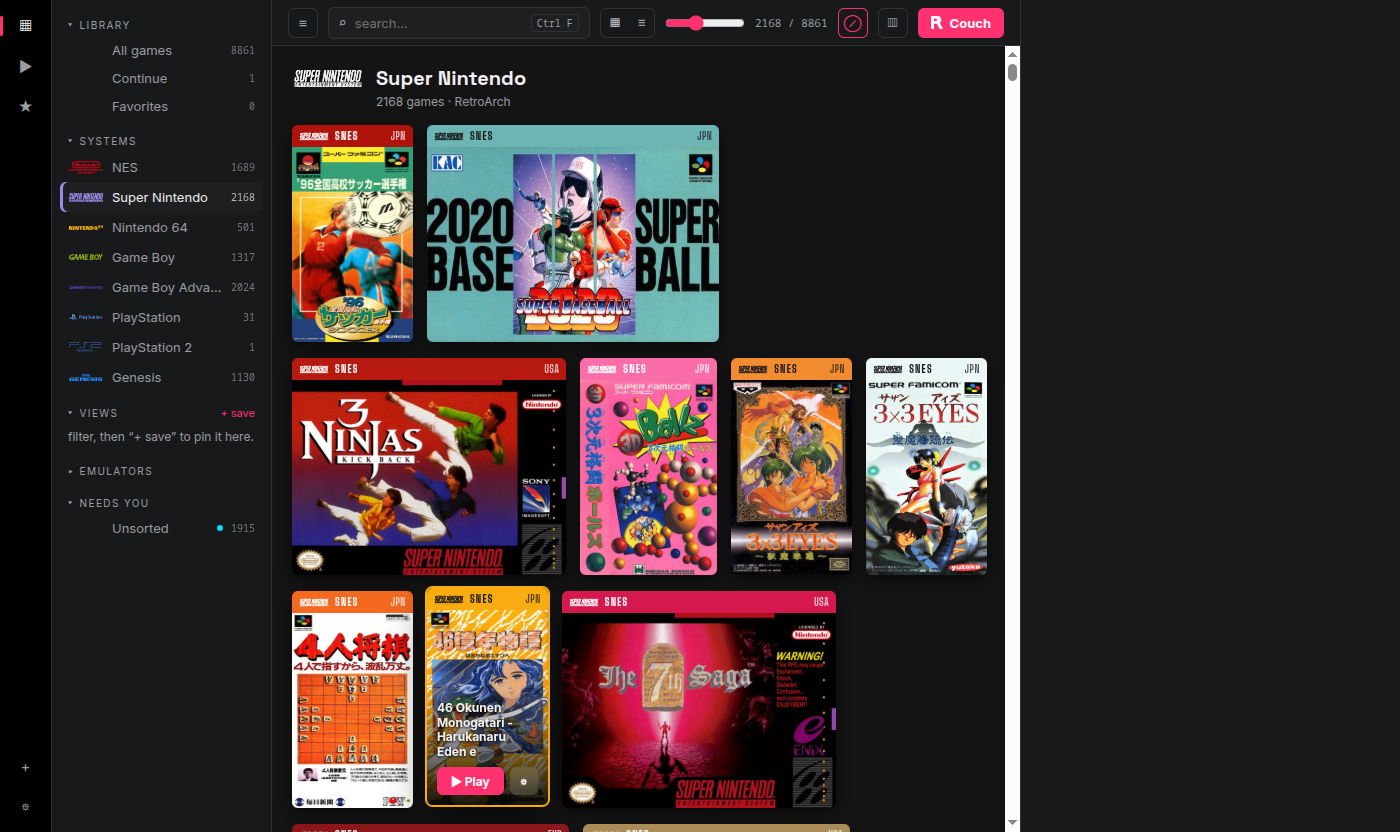
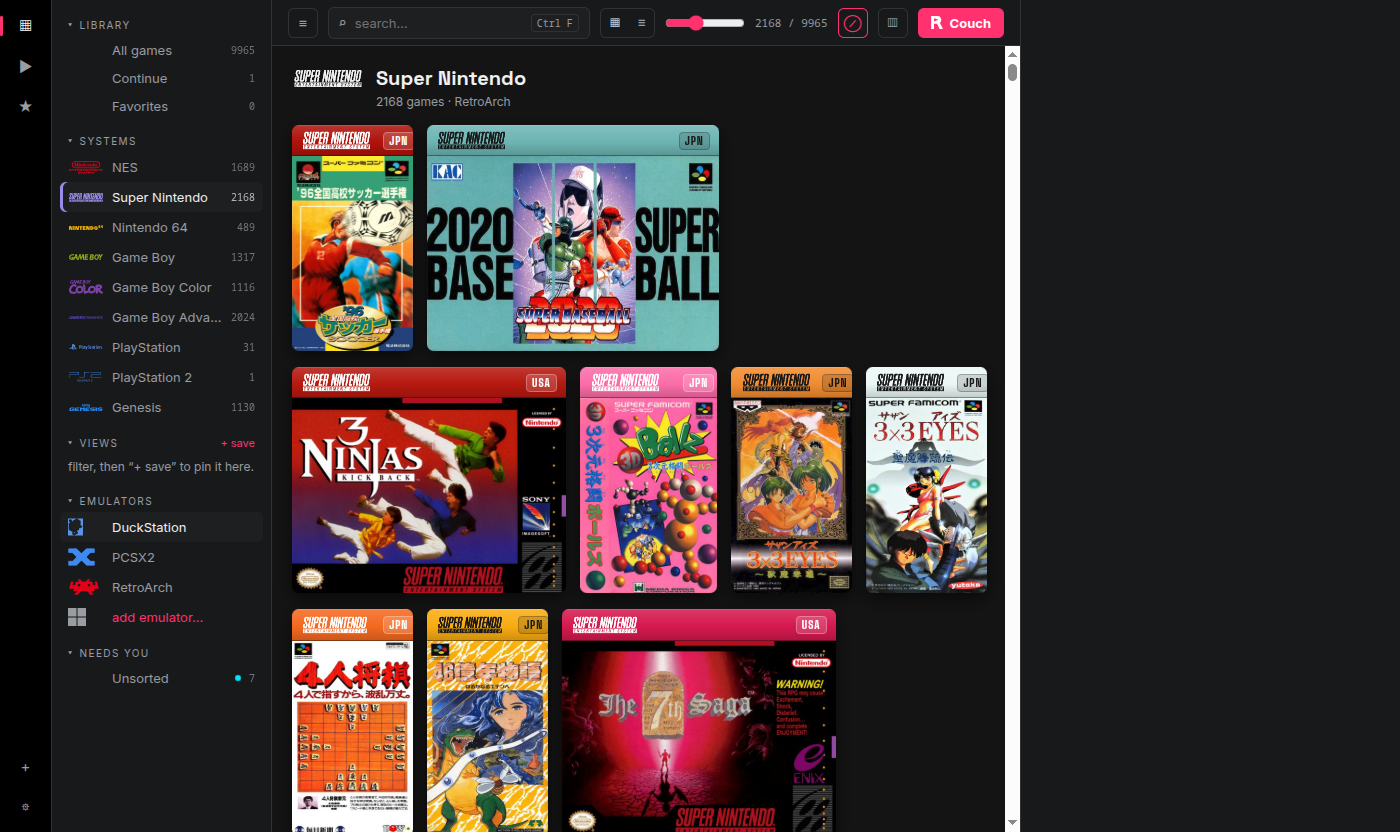
gbc shelf, bigger store bars, translation packs
- Game Boy Color is a real system: systems.json (.gbc), retroarch recipe (mgba core), scraper + covers maps,
  logo from Commons (public domain) flattened with scripts/flatten-svg.js. 1,913 files were in Unsorted;
  now 1,422 cards, 1,116 on the shelf, 1,115 with box art.
- cover bars: height scales with the zoom slider (28-42px, --bh in css == barH() in js so rows never overlap),
  console mark ~2x bigger, region as a pill, cover-colored with a light sheen. dropped the duplicate text label
  ('SNES', 'GB COL...') that sat next to the logo and got truncated.
- covers resume: a jpg already on disk is reused instead of downloaded again (cdn ran 1-5s/cover tonight);
  writes go through .part + rename so an interrupted job never leaves half a jpg behind.
- chinese translation packs ([..][..][Castlevania Aria of Sorrow][date][GBA][汉化][GBA].zip): english name
  from the brackets, platform tag picks the real console, merge into the retail card. pc installers -> unsorted.
- junk filter also applies when a fresh snapshot is rendered without renderAll (cover progress refresh).
37 tests. verified in the packaged AppImage: rescan, snes/gbc/genesis, zoom 110/220, 0 row overlap, 0 exceptions.

diff --git a/src/renderer/app.css b/src/renderer/app.css
@@ -349,12 +349,17 @@ input[type=range]{accent-color:var(--accent)}
 
 @font-face{font-family:'REPRO Bar';src:url('../../assets/fonts/BigShouldersDisplay.ttf') format('truetype');font-weight:100 900;font-display:block}
 /* ---------- shelf cards: top bar in the cover's own color, card in the real box's shape (fixed height, width from the box) */
-.grid.shelfgrid{display:flex;flex-wrap:wrap;align-items:flex-end;gap:16px 14px;--ch:calc(var(--cw,150px) * 1.3)}
-.card.shelf{aspect-ratio:auto;height:calc(var(--ch) + 22px);width:calc(var(--ch) * var(--ar));flex:none;display:flex;flex-direction:column;background:#0b0b0d;border:0;border-radius:6px;box-shadow:0 6px 16px rgba(0,0,0,.55)}
-.card.shelf .cbar{height:22px;flex:none;display:flex;align-items:center;gap:6px;padding:0 7px;background:var(--bc);color:var(--bi);font:800 10.5px/1 'REPRO Bar',var(--display,sans-serif);letter-spacing:.12em;white-space:nowrap;overflow:hidden}
-.card.shelf .cbar .lg{width:30px;height:11px;flex:none;background:var(--bi);-webkit-mask:var(--m) left center/contain no-repeat;mask:var(--m) left center/contain no-repeat}
-.card.shelf .cbar b{font-weight:800;overflow:hidden;text-overflow:ellipsis}
-.card.shelf .cbar span{margin-left:auto;opacity:.75;letter-spacing:.06em;font-weight:700}
+.grid.shelfgrid{display:flex;flex-wrap:wrap;align-items:flex-end;gap:16px 14px;--ch:calc(var(--cw,150px) * 1.3);--bh:clamp(28px,calc(var(--ch) * .16),42px)}
+.card.shelf{aspect-ratio:auto;height:calc(var(--ch) + var(--bh));width:calc(var(--ch) * var(--ar));flex:none;display:flex;flex-direction:column;background:#0b0b0d;border:0;border-radius:7px;box-shadow:0 6px 16px rgba(0,0,0,.55);container-type:inline-size}
+/* store-shelf top bar: color from the cover, the console mark big enough to read across the room */
+.card.shelf .cbar{height:var(--bh);flex:none;display:flex;align-items:center;gap:calc(var(--bh) * .26);padding:0 calc(var(--bh) * .3);
+  background:linear-gradient(180deg,rgba(255,255,255,.14),rgba(255,255,255,0) 55%,rgba(0,0,0,.18)),var(--bc);color:var(--bi);
+  box-shadow:inset 0 -1px 0 rgba(0,0,0,.35),inset 0 1px 0 rgba(255,255,255,.12);
+  font:800 calc(var(--bh) * .44)/1 'REPRO Bar',var(--display,sans-serif);letter-spacing:.09em;white-space:nowrap;overflow:hidden}
+.card.shelf .cbar .lg{height:calc(var(--bh) * .66);width:calc(var(--bh) * 3.4);max-width:72%;flex:none;background:var(--bi);-webkit-mask:var(--m) left center/contain no-repeat;mask:var(--m) left center/contain no-repeat;filter:drop-shadow(0 1px 0 rgba(0,0,0,.2))}
+.card.shelf .cbar b{font-weight:800;overflow:hidden;text-overflow:ellipsis;min-width:0}
+.card.shelf .cbar .rg{margin-left:auto;flex:none;font-weight:800;font-size:calc(var(--bh) * .38);letter-spacing:.08em;padding:calc(var(--bh) * .1) calc(var(--bh) * .2);border-radius:calc(var(--bh) * .14);
+  background:color-mix(in srgb,var(--bi) 16%,transparent);box-shadow:inset 0 0 0 1px color-mix(in srgb,var(--bi) 28%,transparent)}
 .card.shelf .cart{position:relative;flex:1;min-height:0;overflow:hidden}
 .card.shelf.k-box .cart img{width:100%;height:100%;object-fit:fill;display:block}
 .card.shelf.k-title .ts{height:72%;overflow:hidden;background:#000}
@@ -363,8 +368,8 @@ input[type=range]{accent-color:var(--accent)}
 .card.shelf.k-none .na{position:absolute;inset:0;display:flex;align-items:flex-end;padding:10px;background:linear-gradient(160deg,var(--panel2),#0b0b0d)}
 .card.shelf.k-none .na b{font:900 14px/1.05 'REPRO Bar',var(--display,sans-serif);text-transform:uppercase}
 .card.shelf:hover,.card.shelf.sel{box-shadow:0 0 0 2px var(--bc),0 16px 36px rgba(0,0,0,.6)}
-.card.shelf .fav{top:28px}
-.card.shelf .badge{top:28px}
+.card.shelf .fav{top:calc(var(--bh) + 6px)}
+.card.shelf .badge{top:calc(var(--bh) + 6px)}
 .card.shelf .pb{bottom:0}
 /* virtualized library: #items is as tall as the whole shelf, only nearby rows exist, absolutely placed */
 #items.vlist{position:relative;display:block}

diff --git a/src/renderer/app.js b/src/renderer/app.js
@@ -29,7 +29,8 @@ const SHORT = { nes: 'NES', snes: 'SNES', n64: 'N64', gc: 'GAMECUBE', wii: 'WII'
 const REGION = f => { const m = (f || '').match(/\((USA|World|Europe|Japan)[,)]/i) || (f || '').match(/\((?:[^()]*, )?(USA|Europe|Japan)\)/i); return m ? ({ usa: 'USA', world: 'WORLD', europe: 'EUR', japan: 'JPN' })[m[1].toLowerCase()] : ''; };
 function barEl(g) {
   const right = g.year || REGION(g.file);
-  return `<div class="cbar"><i class="lg" style="--m:url('${fileUrl(BUNDLE + '/assets/systems/' + g.sys + '.svg')}')"></i><b>${SHORT[g.sys] || esc(sysName(g.sys)).toUpperCase()}</b>${right ? `<span>${esc(String(right))}</span>` : ''}</div>`;
+  const mark = S.sysdb?.[g.sys] ? `<i class="lg" style="--m:url('${fileUrl(BUNDLE + '/assets/systems/' + g.sys + '.svg')}')" title="${esc(sysName(g.sys))}"></i>` : `<b>${SHORT[g.sys] || esc(sysName(g.sys)).toUpperCase()}</b>`;
+  return `<div class="cbar">${mark}${right ? `<span class="rg">${esc(String(right))}</span>` : ''}</div>`;
 }
 function shelfCard(g) {
   const kind = !g.art ? 'none' : g.artKind === 'title' ? 'title' : 'box';
@@ -49,6 +50,7 @@ function matchView(g, v) { if (v.sys && g.sys !== v.sys) return false; if (v.fav
 
 /* ---------- sidebar ---------- */
 function renderSide() {
+  if (!S.all) applyJunk();
   const counts = {}; S.games.forEach(g => counts[g.sys] = (counts[g.sys] || 0) + 1);
   const it = (f, k, txt, n, extra = '') => `<button class="it ${filter == f ? 'on' : ''}" data-f="${f}" ${sysc(k)}>${k ? logo(k) : ''}<span class="tx">${txt}</span>${extra}<span class="n">${n ?? ''}</span></button>`;
   let h = `<details open><summary>Library</summary>
@@ -101,8 +103,10 @@ const ROW_GAP = 16, COL_GAP = 14, LROW_H = 58, OVERSCAN = 2;
 let VL = null; // { l, rows: [{ top, h, items:[i...] }], height, mode, key }
 const cardDims = g => {
   const ch = cardH(), ar = !g.art ? 0.8 : g.artKind === 'title' ? 0.8 : Math.min(1.5, Math.max(0.62, g.artAR || 0.72));
-  return { w: Math.round(ch * ar), h: ch + 22 };
+  return { w: Math.round(ch * ar), h: ch + barH(ch) };
 };
+// top bar grows with the zoom slider; must match --bh in app.css (.grid.shelfgrid) or rows overlap
+const barH = ch => Math.min(42, Math.max(28, ch * 0.16));
 const cardH = () => Math.round((parseFloat(getComputedStyle(document.documentElement).getPropertyValue('--cw')) || 150) * 1.3);
 function packRows(l, width, mode) {
   const rows = []; let top = 0;
@@ -152,6 +156,7 @@ function vlLayout(keepScroll) {
   vlPaint(true);
 }
 function renderMain() {
+  if (!S.all) applyJunk();
   if (filter == 'unsorted') { VL = null; return renderUnsorted(); }
   if (filter.startsWith('e:')) { VL = null; return renderEmu(filter.slice(2)); }
   const l = list();
@@ -350,6 +355,7 @@ const C_WIN = 40, C_EDGE = 18; // a screen holds ~11 tiles: always keep 18+ load
 let cData = [], cRowStart = [], cRowCol = [];
 let bgFlip = false;
 function renderCouch() {
+  if (!S.all) applyJunk();
   const rows = []; const cont = played().slice(0, 8); if (cont.length) rows.push({ k: 'continue', n: 'Continue', items: cont });
   for (const k of Object.keys(S.systems)) { const it = S.games.filter(g => g.sys == k).sort(byName); if (it.length) rows.push({ k, n: sysName(k), items: it }); }
   cList = []; cRows = []; cRowStart = [];

diff --git a/src/main/covers.js b/src/main/covers.js
@@ -61,7 +61,7 @@ function matchName(game, names, idx) {
   const pick = list => list && list.slice().sort((a, b) => rank(a) - rank(b) || a.length - b.length)[0];
   const byBase = pick(idx.base.get(baseTitle(stem).toLowerCase()));
   if (byBase && !BAD.test(byBase)) return byBase;
-  const byFuzzy = pick(idx.fuzzy.get(fuzzy(stem)) || idx.fuzzy.get(fuzzy(lrName(game.title || ''))));
+  const byFuzzy = pick(idx.fuzzy.get(fuzzy(stem)) || idx.fuzzy.get(fuzzy(lrName(game.title || ''))) || (game.name ? idx.fuzzy.get(fuzzy(lrName(game.name))) : null)); // display name: translation packs
   if (byFuzzy && !BAD.test(byFuzzy)) return byFuzzy;
   return byBase || byFuzzy || null;
 }
@@ -139,12 +139,15 @@ async function coverFor(game, { artDir, cacheDir, img, fetch = get, indexes = {}
     if (!(key in indexes)) { const names = await loadIndex(game.sys, kind, cacheDir, { fetch }); indexes[key] = names && { names, idx: indexNames(names) }; }
     const ix = indexes[key]; if (!ix) continue;
     const name = matchName(game, ix.names, ix.idx); if (!name) continue;
+    const dir = path.join(artDir, game.sys);
+    const out = path.join(dir, `${lrName(stemOf(game.file || game.title))}.${kind}.jpg`);
+    // already on disk from an earlier (maybe interrupted) run: reuse it, no download. the cdn can be slow (1-5s a cover).
+    if (fs.existsSync(out)) { const d = describeLocal(out, img); if (d) return { art: out, artKind: kind, ...d, artFrom: name }; }
     const r = await fetch(folderUrl(game.sys, kind) + encodeURIComponent(name) + '.png').catch(() => null);
     if (!r || r.status !== 200 || r.body.length < 500) continue;
     const pic = img.decode(r.body); if (!pic || !pic.w) continue;
-    const dir = path.join(artDir, game.sys); fs.mkdirSync(dir, { recursive: true });
-    const out = path.join(dir, `${lrName(stemOf(game.file || game.title))}.${kind}.jpg`);
-    fs.writeFileSync(out, pic.jpeg(420));
+    fs.mkdirSync(dir, { recursive: true });
+    fs.writeFileSync(out + '.part', pic.jpeg(420)); fs.renameSync(out + '.part', out); // never leave a half-written jpg to be "reused"
     const bm = pic.bitmap(64);
     return { art: out, artKind: kind, artAR: +(pic.w / pic.h).toFixed(3), ...prefix(accentFromBitmap(bm.data, bm.w, bm.h)), artFrom: name };
   }

diff --git a/src/main/titles.js b/src/main/titles.js
@@ -47,8 +47,29 @@ function fixArticles(s) {
   return s.split(' - ').map(seg => { const m = seg.match(ARTICLES); return m && !m[3]?.trim() ? `${m[2]} ${m[1]}` : m ? `${m[2]} ${m[1]}${m[3]}` : seg; }).join(' - ');
 }
 
+// fan-translation packs name files by bracket groups instead of No-Intro:
+//   [恶魔城 晓月圆舞曲][キャッスルヴァニア 暁月の円舞曲][Castlevania Aria of Sorrow][20030508][GBA][汉化][GBA].zip
+// -> name from the latin group, the platform tag says which console it really is (they get dumped in random folders).
+const PACK_SYS = { FC: 'nes', NES: 'nes', SFC: 'snes', SNES: 'snes', GB: 'gb', GBC: 'gbc', GBA: 'gba', NDS: 'ds', N64: 'n64', PS: 'ps1', PSX: 'ps1', PS1: 'ps1', PS2: 'ps2', MD: 'genesis', GEN: 'genesis', PSP: 'psp' };
+function parsePack(st) {
+  const g = [...st.matchAll(/\[([^\]]*)\]/g)].map(m => m[1].trim());
+  if (g.length < 4 || st.replace(/\[[^\]]*\]/g, '').trim()) return null;   // the whole name is bracket groups
+  const latin = g.find(x => /[a-z]{3}/i.test(x) && !/[^\x00-\x7f\u2160-\u217f]/.test(x) && !PACK_SYS[x.toUpperCase()]);
+  if (!latin) return null;
+  const plat = g.map(x => x.toUpperCase()).filter(x => PACK_SYS[x]);
+  const pc = g.some(x => /^(exe|pc|安装版)$/i.test(x) || /安装/.test(x));
+  const name = latin.replace(/[\u2160-\u216b]/g, c => ['I','II','III','IV','V','VI','VII','VIII','IX','X','XI','XII'][c.charCodeAt(0) - 0x2160])
+    .replace(/([a-z])([A-Z][a-z])/g, '$1 $2').replace(/\s+/g, ' ').trim();       // "CastlevaniaPortrait" -> "Castlevania Portrait"
+  return { name, sys: pc ? null : PACK_SYS[plat[plat.length - 1]] || null, pc };
+}
+
 function parse(file) {
   let s = stem(file);
+  const pack = parsePack(s);
+  if (pack) {
+    const name = pack.name, sort = name.replace(/^(the|a|an) /i, '').toLowerCase();
+    return { name, sort, group: name.toLowerCase().replace(/[^a-z0-9]+/g, ' ').trim(), kind: pack.pc ? 'pc' : null, junk: false, chips: ['CN translation'], trans: 'CN translation', sysHint: pack.sys, pc: pack.pc };
+  }
   const tags = []; let kind = null, disc = null, trans = null;
   // leading [BIOS] / [Hack] style prefixes
   s = s.replace(/^\s*\[([^\]]+)\]\s*/, (_, t) => { tags.push(t.trim()); return ''; });

diff --git a/test/main.test.js b/test/main.test.js
@@ -106,7 +106,7 @@ test('every source file parses (renderer included: a syntax error there blanks t
 
 test('archived carts: .7z in a system folder scans for retroarch systems; nes no longer matches snes/genesis folders', async () => {
   const lib = path.join(TMP, 'carts');
-  for (const [d, f] of [['snes', 'Super Metroid (Japan, USA) (En,Ja).7z'], ['genesis', 'Sonic the Hedgehog (USA, Europe).7z'], ['nes', 'Metroid (USA).zip'], ['nes', 'Metroid (USA) (Virtual Console).zip'], ['snes', 'Chrono Trigger (USA).7z'], ['snes', 'Chrono Trigger (USA).sfc'], ['gba', 'Advance Wars (USA).7z'], ['ps2', 'Devil May Cry (USA).zip'], ['misc', 'Mystery.7z']]) {
+  for (const [d, f] of [['gbc', 'Pokemon - Crystal Version (USA, Europe) (Rev 1).7z'], ['gb', 'Tetris (World) (Rev 1).7z'], ['snes', 'Super Metroid (Japan, USA) (En,Ja).7z'], ['genesis', 'Sonic the Hedgehog (USA, Europe).7z'], ['nes', 'Metroid (USA).zip'], ['nes', 'Metroid (USA) (Virtual Console).zip'], ['snes', 'Chrono Trigger (USA).7z'], ['snes', 'Chrono Trigger (USA).sfc'], ['gba', 'Advance Wars (USA).7z'], ['ps2', 'Devil May Cry (USA).zip'], ['misc', 'Mystery.7z']]) {
     fs.mkdirSync(path.join(lib, d), { recursive: true }); fs.writeFileSync(path.join(lib, d, f), 'x');
   }
   M.config.romDirs = [{ path: lib, system: null }];
@@ -116,6 +116,9 @@ test('archived carts: .7z in a system folder scans for retroarch systems; nes no
   assert.strictEqual(sysOf('Sonic the Hedgehog'), 'genesis');
   assert.strictEqual(sysOf('Metroid'), 'nes');
   assert.strictEqual(sysOf('Advance Wars'), 'gba');
+  assert.strictEqual(sysOf('Pokemon - Crystal Version'), 'gbc', 'gbc folder is its own system, not unsorted');
+  assert.strictEqual(sysOf('Tetris'), 'gb');
+  assert.deepStrictEqual(M.recipes.retroarch.cores.gbc, 'mgba');
   const metroids = Object.values(M.library.games).filter(g => g.title.startsWith('Metroid'));
   assert.strictEqual(metroids.length, 1, 'virtual console re-release merges into the same card');
   assert.strictEqual(metroids[0].file, 'Metroid (USA).zip', 'the original cart is the pick, not the VC rip');

diff --git a/src/main/main.js b/src/main/main.js
@@ -263,7 +263,11 @@ async function scanDir(dir, out, unsorted, forcedSys) {
     if (ARCHIVE_EXT.test(e.name) && ents.some(x => x.name !== e.name && !/\.(7z|zip|rar)$/i.test(x.name) && x.name.toLowerCase().replace(/\.[^.]+$/, '') === e.name.toLowerCase().replace(/\.(7z|zip|rar)$/i, ''))) continue; // extracted copy is right there
     if (ARCHIVE_EXT.test(e.name)) {
       // archived carts: fine when the folder says which system and that system's emulator reads archives
-      const asys = forcedSys || sysFromDir(p);
+      let asys = forcedSys || sysFromDir(p);
+      // translation packs carry their real console in the name ([GBA], [NDS]...) and get dropped in whatever folder
+      const tp = titles.parse(e.name);
+      if (tp.pc) { unsorted.push({ path: p, why: 'pc installer, not a rom' }); continue; }
+      if (tp.sysHint && tp.sysHint !== asys) { if (!ARCHIVE_SYS.has(tp.sysHint)) { unsorted.push({ path: p, why: `${SYSTEMS[tp.sysHint] || tp.sysHint} game, extract it first or add an emulator` }); continue; } asys = tp.sysHint; }
       if (asys && ARCHIVE_SYS.has(asys)) { out.push({ path: p, sys: asys, title: titleFromFile(e.name), file: e.name }); continue; }
     }
     if (/\.(7z|zip|rar)$/i.test(e.name)) {
@@ -574,7 +578,7 @@ if (plat.OS === 'linux') app.commandLine.appendSwitch('enable-features', 'Global
 app.whenReady().then(() => { if (!process.argv.includes('--smoke')) { createWindow(); startGuideHook(); } });
 app.on('window-all-closed', () => app.quit());
 app.on('will-quit', () => { globalShortcut.unregisterAll(); stopGuideHook(); });
-module.exports = { startCovers, IMG, library, saveCtx, launch, killRunning, detectEmulators, scanLibrary, snapshot, config, saveConfig, recipes, resolveDataDir, recipeForExe, isEmulatorFile, ROOT };
+module.exports = { coverRunning: () => !!coverJob, startCovers, IMG, library, saveCtx, launch, killRunning, detectEmulators, scanLibrary, snapshot, config, saveConfig, recipes, resolveDataDir, recipeForExe, isEmulatorFile, ROOT };
 
 // ---------- ipc
 ipcMain.handle('snapshot', () => snapshot());

diff --git a/test/titles.test.js b/test/titles.test.js
@@ -51,3 +51,13 @@ test('fan translations merge with the game, trainers are hacks', () => {
   assert.strictEqual(a.group, parse('Teenage Mutant Ninja Turtles 2 (USA).7z').group);
   assert.strictEqual(parse('Contra (USA) [t1].nes').kind, 'hack');
 });
+
+test('chinese translation packs: english name from the brackets, platform tag picks the console', () => {
+  const a = parse('[恶魔城 晓月圆舞曲][キャッスルヴァニア 暁月の円舞曲][Castlevania Aria of Sorrow][20030508][GBA][汉化][GBA].zip');
+  assert.strictEqual(a.name, 'Castlevania Aria of Sorrow'); assert.strictEqual(a.sysHint, 'gba'); assert.strictEqual(a.junk, false);
+  const b = parse("[恶魔城Ⅱ 诅咒的封印][ドラキュラⅡ 呪いの封印][Castlevania Ⅱ Simon's Quest][19881201][FC][汉化][NES].zip");
+  assert.strictEqual(b.name, "Castlevania II Simon's Quest"); assert.strictEqual(b.sysHint, 'nes');
+  assert.strictEqual(parse('[恶魔城 迷宫的画廊][悪魔城ドラキュラ ギャラリーオブラビリンス][CastlevaniaPortrait of Ruin][20061116][NDS][汉化][NDS].zip').name, 'Castlevania Portrait of Ruin');
+  assert.strictEqual(parse('[恶魔城 默示录外传][悪魔城ドラキュラ黙示録外伝 LEGEND OF CORNELL][Castlevania Legacy of Darkness][19991225][N64][汉化][EXE][高清整合安装版].zip').pc, true);
+  assert.strictEqual(parse('[BIOS] Nintendo 64 - PIF (Europe).7z').kind, 'bios', 'normal [BIOS] prefix is not a pack');
+});

diff --git a/test/covers.test.js b/test/covers.test.js
@@ -67,5 +67,11 @@ test('coverFor: index cached once, box art preferred, title screen fallback, fil
   assert.strictEqual(await C.coverFor({ sys: 'snes', title: 'Nope', file: 'Nope (USA).7z' }, opts), null);
   assert.strictEqual(hits.filter(u => u.endsWith('/Named_Boxarts/')).length, 1, 'index downloaded once for all games');
   assert.ok(fs.existsSync(path.join(dir, 'idx', 'snes.box.json')), 'index cached on disk');
+  // second run (interrupted job, library rebuilt): the jpg on disk is reused, no png download
+  const pngs = hits.filter(u => u.endsWith('.png')).length;
+  const r3 = await C.coverFor({ sys: 'snes', title: 'Super Metroid', file: 'Super Metroid (Japan, USA) (En,Ja).7z' }, opts);
+  assert.strictEqual(r3.art, r1.art); assert.strictEqual(r3.artKind, 'box'); assert.ok(r3.artColor);
+  assert.strictEqual(hits.filter(u => u.endsWith('.png')).length, pngs, 'cached cover not downloaded again');
+  assert.ok(!fs.readdirSync(path.join(dir, 'art', 'snes')).some(f => f.endsWith('.part')), 'no partial files left');
   fs.rmSync(dir, { recursive: true, force: true });
 });

diff --git a/src/main/scraper.js b/src/main/scraper.js
@@ -10,7 +10,7 @@ const os = require('os');
 
 const IGDB_PLATFORM_IDS = {
   nes: 18, snes: 19, n64: 4, gc: 21, wii: 5, wiiu: 41, switch: 130,
-  gb: 33, gba: 24, ds: 20, '3ds': 37,
+  gb: 33, gbc: 22, gba: 24, ds: 20, '3ds': 37,
   ps1: 7, ps2: 8, ps3: 9, psp: 38, vita: 46,
   xbox: 11, x360: 12, genesis: 29, saturn: 32, dc: 23, pc: 6,
 };
@@ -21,7 +21,7 @@ const LR_SYSTEM = {
   n64: 'Nintendo - Nintendo 64',
   gc: 'Nintendo - GameCube',
   wii: 'Nintendo - Wii',
-  gb: 'Nintendo - Game Boy', gba: 'Nintendo - Game Boy Advance',
+  gb: 'Nintendo - Game Boy', gbc: 'Nintendo - Game Boy Color', gba: 'Nintendo - Game Boy Advance',
   ds: 'Nintendo - Nintendo DS', '3ds': 'Nintendo - Nintendo 3DS',
   ps1: 'Sony - PlayStation', ps2: 'Sony - PlayStation 2',
   ps3: 'Sony - PlayStation 3', psp: 'Sony - PlayStation Portable',
